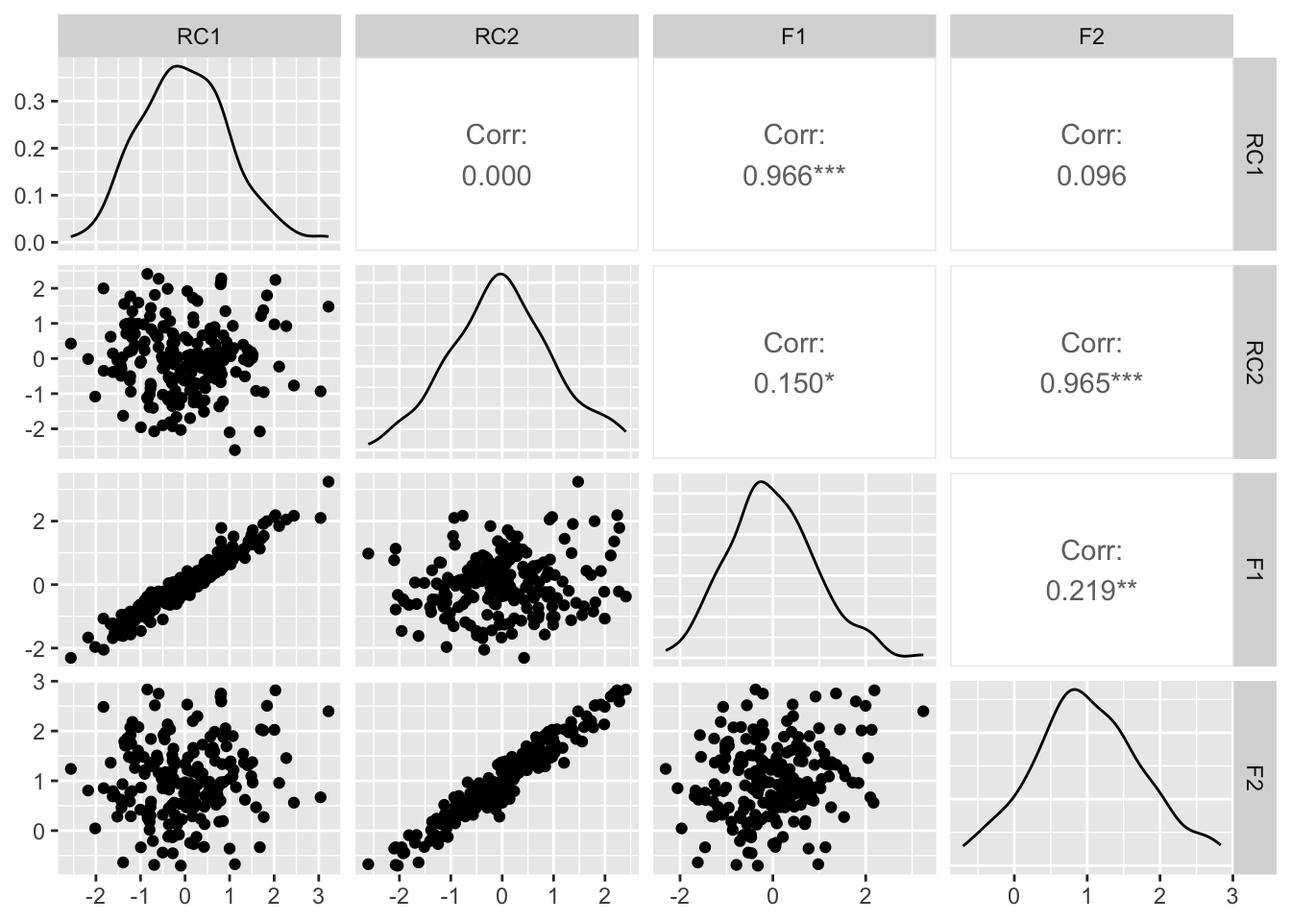
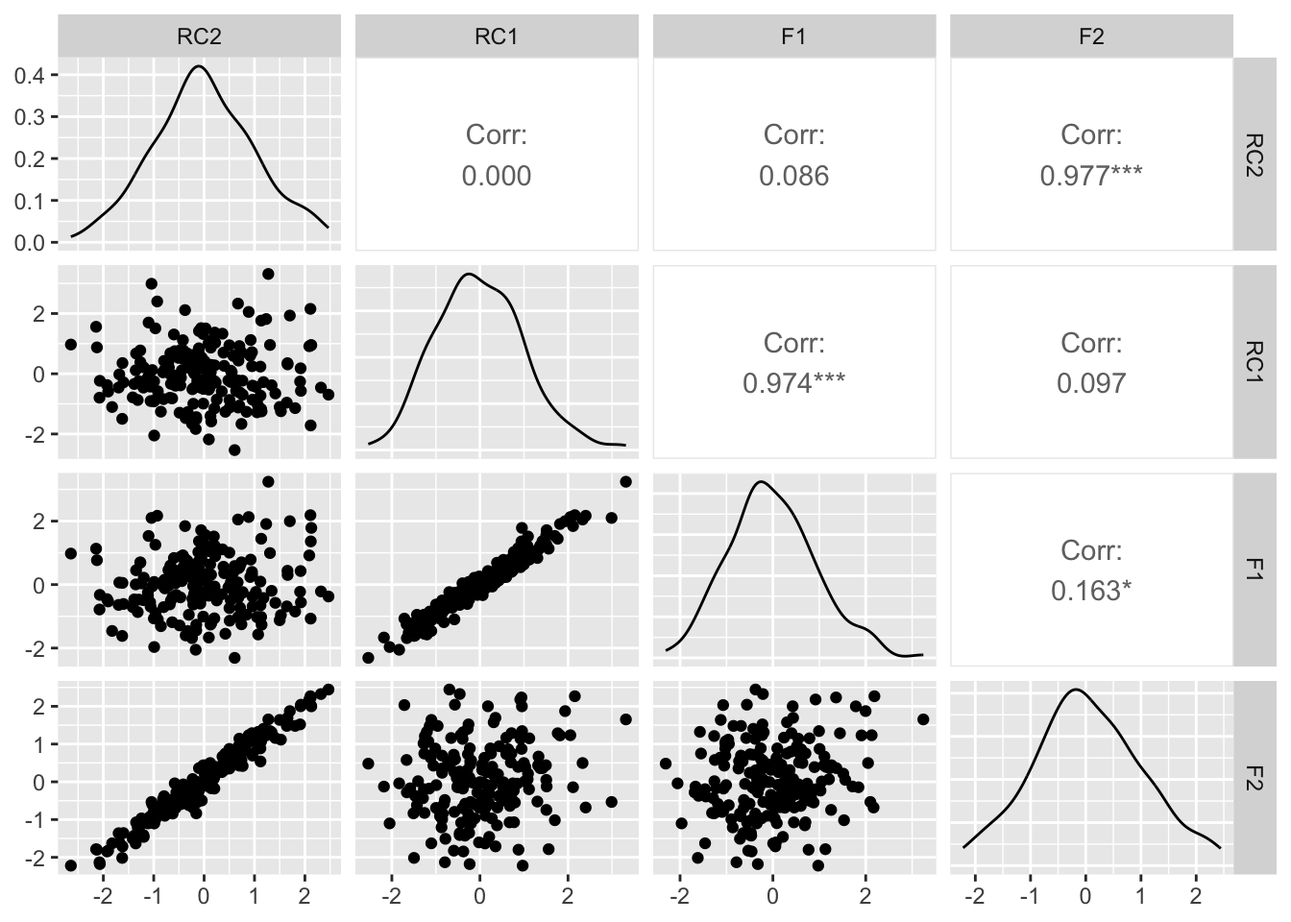
finish blog post

diff --git a/_site/posts/2025-12-11-pca-rotations/index.html b/_site/posts/2025-12-11-pca-rotations/index.html
@@ -195,6 +195,10 @@ cookieconsent.run({
   <li><a href="#promax" id="toc-promax" class="nav-link" data-scroll-target="#promax">ProMax</a></li>
   <li><a href="#oblimin" id="toc-oblimin" class="nav-link" data-scroll-target="#oblimin">ObliMin</a></li>
   </ul></li>
+  <li><a href="#summary" id="toc-summary" class="nav-link" data-scroll-target="#summary">Summary</a>
+  <ul class="collapse">
+  <li><a href="#limitations" id="toc-limitations" class="nav-link" data-scroll-target="#limitations">Limitations</a></li>
+  </ul></li>
   </ul>
 </nav>
     </div>
@@ -230,9 +234,10 @@ cookieconsent.run({
 <section id="what-happens-in-a-pca" class="level1">
 <h1>What happens in a PCA</h1>
 <p>Conceptually, PCA commonly is to summarise the latent variation within a dataset. That is, when we want to measure something that is not directly accessible, a way around that is to ask a number of questions that are measurable and combine them in a way that reflects the underlying thing we do want to measure.</p>
-<p>A PCA aims to do this mathematically by measuring the correlation between all pairs of variables, then creating new variables based on those correlations and weights of the original variables through an approach called eigenvalue decomposition. Variables that are similar weight heavily onto the same principle component, and there can one less principle components as there are variables (a.k.a: n - 1). In a standard PCA, which is also described as a varimax rotation<a href="#fn1" class="footnote-ref" id="fnref1" role="doc-noteref"><sup>1</sup></a>, there are two complimentary constraints to the calculation of weights, first is that the weights should maximise the amount of variance explained by the principle components and second is that principle components should be orthogonal, or perfectly uncorrelated with each other. Under a varimax rotation, an additional step is to alter the weightings by making large weights bigger, and penalize changes to weights that makes loadings similar across variables. This combination priotizes a simpler structure of the Principal components.</p>
+<p>A PCA aims to do this mathematically by measuring the correlation between all pairs of variables<a href="#fn1" class="footnote-ref" id="fnref1" role="doc-noteref"><sup>1</sup></a>, then creating new variables based on those correlations and weights of the original variables through an approach called eigenvalue decomposition. Variables that are similar weight heavily onto the same principal component, and there can be as many principal components as there are variables.</p>
+<p>PCA extracts components; rotations such as varimax are post-hoc steps applied after extraction. Varimax is an orthogonal rotation that seeks to simplify loadings by making large weights larger and small weights smaller while keeping components orthogonal (uncorrelated). This combination prioritizes a simpler structure of the principal components.</p>
 <p>In most social sciences, assuming that latent variables are uncorrelated is usually a poor assumption. Most aspects of human behaviour impact each other in some way, and so we often want to relax this assumption, using alternative rotations, such as Promax (<strong>PRO</strong>jection to <strong>MAX</strong>imise simplicity) and ObliMin (<strong>OBLI</strong>que <strong>MIN</strong>imum). But, often we do not have a good understanding of how these approaches vary or differ in their approach to measuring latent variables. Let us look at this in a simulated example.</p>
-<p>In the simulated example, I start with the end product (two latent factors named <code>F1</code> and <code>F2</code>), then create four variables from these latent factors (<code>V1, V2, V3, V4</code>). F1 and F2 have a 0.2 correlation that I have imposed, which is a low but not negligible relationship between latent variables. I specify the weights so that <code>V1</code> and <code>V2</code> are weighted towards <code>F1</code> (0.8 and 0.7 respectively), and V3 and V4 are weighted towards <code>F2</code> (0.8; 0.7), and add some normally distributed noise to those variables. The variables <code>V1-V4</code> then sit in a data frame <code>df</code> . The correlation matrix between each variable shows us that there is a stronger relationship between V1-2 and V3-4 but there is also some relationship across this divided, which is not an uncommon finding in social datasets.</p>
+<p>In the simulated example, I start with the end product (two latent factors named <code>F1</code> and <code>F2</code>), then create four variables from these latent factors (<code>V1, V2, V3, V4</code>). F1 and F2 have a 0.2 correlation that I have imposed, which is a low but not negligible relationship between latent variables. This is created below with the code: <code>F2 &lt;- 0.2 * F1 + sqrt(1 - 0.2^2) * rnorm(n)</code>, which constructs F2 with approximate correlation 0.2 to F1. I specify the weights so that <code>V1</code> and <code>V2</code> are weighted towards <code>F1</code> (0.8 and 0.7 respectively), and V3 and V4 are weighted towards <code>F2</code> (0.8; 0.7), and add some normally distributed noise to those variables. The variables <code>V1-V4</code> then sit in a data frame <code>df</code>. The correlation matrix between each variable shows us that there is a stronger relationship between V1-2 and V3-4 but there is also some relationship across this divided, which is not an uncommon finding in social datasets.</p>
 <div class="cell">
 <div class="sourceCode cell-code" id="cb1"><pre class="sourceCode r code-with-copy"><code class="sourceCode r"><span id="cb1-1"><a href="#cb1-1" aria-hidden="true" tabindex="-1"></a><span class="fu">library</span>(psych)</span>
 <span id="cb1-2"><a href="#cb1-2" aria-hidden="true" tabindex="-1"></a><span class="fu">library</span>(ggplot2)</span>
@@ -243,7 +248,7 @@ cookieconsent.run({
 <span id="cb1-7"><a href="#cb1-7" aria-hidden="true" tabindex="-1"></a><span class="fu">set.seed</span>(<span class="dv">123</span>)</span>
 <span id="cb1-8"><a href="#cb1-8" aria-hidden="true" tabindex="-1"></a>n <span class="ot">&lt;-</span> <span class="dv">200</span></span>
 <span id="cb1-9"><a href="#cb1-9" aria-hidden="true" tabindex="-1"></a>F1 <span class="ot">&lt;-</span> <span class="fu">rnorm</span>(n)</span>
-<span id="cb1-10"><a href="#cb1-10" aria-hidden="true" tabindex="-1"></a>F2 <span class="ot">&lt;-</span> F1 <span class="sc">*</span> <span class="fl">0.2</span> <span class="sc">+</span> <span class="fu">sqrt</span>(<span class="dv">1</span> <span class="sc">-</span> <span class="fl">0.2</span><span class="sc">^</span><span class="dv">2</span>) <span class="sc">+</span> <span class="fu">rnorm</span>(n, <span class="dv">0</span>, <span class="fl">0.75</span>)</span>
+<span id="cb1-10"><a href="#cb1-10" aria-hidden="true" tabindex="-1"></a>F2 <span class="ot">&lt;-</span> F1 <span class="sc">*</span> <span class="fl">0.2</span> <span class="sc">+</span> <span class="fu">sqrt</span>(<span class="dv">1</span> <span class="sc">-</span> <span class="fl">0.2</span><span class="sc">^</span><span class="dv">2</span>) <span class="sc">*</span> <span class="fu">rnorm</span>(n)</span>
 <span id="cb1-11"><a href="#cb1-11" aria-hidden="true" tabindex="-1"></a></span>
 <span id="cb1-12"><a href="#cb1-12" aria-hidden="true" tabindex="-1"></a><span class="co"># Variables mainly loading on one factor</span></span>
 <span id="cb1-13"><a href="#cb1-13" aria-hidden="true" tabindex="-1"></a>V1 <span class="ot">&lt;-</span> <span class="fl">0.8</span><span class="sc">*</span>F1 <span class="sc">+</span> <span class="fl">0.1</span><span class="sc">*</span>F2 <span class="sc">+</span> <span class="fu">rnorm</span>(n, <span class="dv">0</span>, <span class="fl">0.2</span>)</span>
@@ -253,41 +258,49 @@ cookieconsent.run({
 <span id="cb1-17"><a href="#cb1-17" aria-hidden="true" tabindex="-1"></a></span>
 <span id="cb1-18"><a href="#cb1-18" aria-hidden="true" tabindex="-1"></a>df <span class="ot">&lt;-</span> <span class="fu">data.frame</span>(V1, V2, V3, V4)</span>
 <span id="cb1-19"><a href="#cb1-19" aria-hidden="true" tabindex="-1"></a></span>
-<span id="cb1-20"><a href="#cb1-20" aria-hidden="true" tabindex="-1"></a><span class="fu">round</span>(<span class="fu">cor</span>(df), <span class="dv">2</span>)</span></code><button title="Copy to Clipboard" class="code-copy-button"><i class="bi"></i></button></pre></div>
+<span id="cb1-20"><a href="#cb1-20" aria-hidden="true" tabindex="-1"></a><span class="fu">cat</span>(<span class="st">"Correlations of Variables:</span><span class="sc">\n</span><span class="st">"</span>)</span></code><button title="Copy to Clipboard" class="code-copy-button"><i class="bi"></i></button></pre></div>
+<div class="cell-output cell-output-stdout">
+<pre><code>Correlations of Variables:</code></pre>
+</div>
+<div class="sourceCode cell-code" id="cb3"><pre class="sourceCode r code-with-copy"><code class="sourceCode r"><span id="cb3-1"><a href="#cb3-1" aria-hidden="true" tabindex="-1"></a><span class="fu">round</span>(<span class="fu">cor</span>(df), <span class="dv">2</span>)</span></code><button title="Copy to Clipboard" class="code-copy-button"><i class="bi"></i></button></pre></div>
 <div class="cell-output cell-output-stdout">
 <pre><code>     V1   V2   V3   V4
-V1 1.00 0.92 0.38 0.55
-V2 0.92 1.00 0.49 0.65
-V3 0.38 0.49 1.00 0.87
-V4 0.55 0.65 0.87 1.00</code></pre>
+V1 1.00 0.92 0.34 0.49
+V2 0.92 1.00 0.49 0.62
+V3 0.34 0.49 1.00 0.92
+V4 0.49 0.62 0.92 1.00</code></pre>
 </div>
 </div>
 <p>As mentioned in the description, PCA is based off of a correlation matrix, which is created below in the object <code>R</code>, but you can also put the data frame directly into the function <code>principal</code>. Doing the latter means you will be returned values for each observation in the data frame that reflect the principal components (which is usually what researchers are after).</p>
 <div class="cell">
-<div class="sourceCode cell-code" id="cb3"><pre class="sourceCode r code-with-copy"><code class="sourceCode r"><span id="cb3-1"><a href="#cb3-1" aria-hidden="true" tabindex="-1"></a><span class="co"># Step 2: Compute correlation matrix</span></span>
-<span id="cb3-2"><a href="#cb3-2" aria-hidden="true" tabindex="-1"></a>R <span class="ot">&lt;-</span> <span class="fu">cor</span>(df)</span>
-<span id="cb3-3"><a href="#cb3-3" aria-hidden="true" tabindex="-1"></a></span>
-<span id="cb3-4"><a href="#cb3-4" aria-hidden="true" tabindex="-1"></a><span class="co"># Step 3: Factor analysis with 2 factors</span></span>
-<span id="cb3-5"><a href="#cb3-5" aria-hidden="true" tabindex="-1"></a>pc_varimax <span class="ot">=</span> psych<span class="sc">::</span><span class="fu">principal</span>(df, <span class="at">nfactors =</span> <span class="dv">2</span>, <span class="at">rotate =</span> <span class="st">"varimax"</span>)</span>
-<span id="cb3-6"><a href="#cb3-6" aria-hidden="true" tabindex="-1"></a></span>
-<span id="cb3-7"><a href="#cb3-7" aria-hidden="true" tabindex="-1"></a><span class="fu">print</span>(pc_varimax<span class="sc">$</span>loadings, <span class="at">cutoff =</span> <span class="dv">0</span>)</span></code><button title="Copy to Clipboard" class="code-copy-button"><i class="bi"></i></button></pre></div>
+<div class="sourceCode cell-code" id="cb5"><pre class="sourceCode r code-with-copy"><code class="sourceCode r"><span id="cb5-1"><a href="#cb5-1" aria-hidden="true" tabindex="-1"></a><span class="co"># Step 2: Compute correlation matrix</span></span>
+<span id="cb5-2"><a href="#cb5-2" aria-hidden="true" tabindex="-1"></a>R <span class="ot">&lt;-</span> <span class="fu">cor</span>(df)</span>
+<span id="cb5-3"><a href="#cb5-3" aria-hidden="true" tabindex="-1"></a></span>
+<span id="cb5-4"><a href="#cb5-4" aria-hidden="true" tabindex="-1"></a><span class="co"># Step 3: Factor analysis with 2 factors</span></span>
+<span id="cb5-5"><a href="#cb5-5" aria-hidden="true" tabindex="-1"></a>pc_varimax <span class="ot">=</span> psych<span class="sc">::</span><span class="fu">principal</span>(df, <span class="at">nfactors =</span> <span class="dv">2</span>, <span class="at">rotate =</span> <span class="st">"varimax"</span>)</span>
+<span id="cb5-6"><a href="#cb5-6" aria-hidden="true" tabindex="-1"></a></span>
+<span id="cb5-7"><a href="#cb5-7" aria-hidden="true" tabindex="-1"></a><span class="fu">cat</span>(<span class="st">"Rotated score correlations:</span><span class="sc">\n</span><span class="st">"</span>)</span></code><button title="Copy to Clipboard" class="code-copy-button"><i class="bi"></i></button></pre></div>
+<div class="cell-output cell-output-stdout">
+<pre><code>Rotated score correlations:</code></pre>
+</div>
+<div class="sourceCode cell-code" id="cb7"><pre class="sourceCode r code-with-copy"><code class="sourceCode r"><span id="cb7-1"><a href="#cb7-1" aria-hidden="true" tabindex="-1"></a><span class="fu">print</span>(pc_varimax<span class="sc">$</span>loadings, <span class="at">cutoff =</span> <span class="dv">0</span>)</span></code><button title="Copy to Clipboard" class="code-copy-button"><i class="bi"></i></button></pre></div>
 <div class="cell-output cell-output-stdout">
 <pre><code>
 Loadings:
-   RC1   RC2  
-V1 0.962 0.210
-V2 0.919 0.344
-V3 0.173 0.963
-V4 0.385 0.891
+   RC2   RC1  
+V1 0.178 0.969
+V2 0.348 0.918
+V3 0.970 0.168
+V4 0.920 0.339
 
-                 RC1   RC2
-SS loadings    1.947 1.883
-Proportion Var 0.487 0.471
-Cumulative Var 0.487 0.957</code></pre>
+                 RC2   RC1
+SS loadings    1.941 1.924
+Proportion Var 0.485 0.481
+Cumulative Var 0.485 0.966</code></pre>
 </div>
-<div class="sourceCode cell-code" id="cb5"><pre class="sourceCode r code-with-copy"><code class="sourceCode r"><span id="cb5-1"><a href="#cb5-1" aria-hidden="true" tabindex="-1"></a>plot_df <span class="ot">=</span> <span class="fu">data.frame</span>(pc_varimax<span class="sc">$</span>scores, F1 , F2)</span>
-<span id="cb5-2"><a href="#cb5-2" aria-hidden="true" tabindex="-1"></a></span>
-<span id="cb5-3"><a href="#cb5-3" aria-hidden="true" tabindex="-1"></a><span class="fu">ggpairs</span>(plot_df)</span></code><button title="Copy to Clipboard" class="code-copy-button"><i class="bi"></i></button></pre></div>
+<div class="sourceCode cell-code" id="cb9"><pre class="sourceCode r code-with-copy"><code class="sourceCode r"><span id="cb9-1"><a href="#cb9-1" aria-hidden="true" tabindex="-1"></a>plot_df <span class="ot">=</span> <span class="fu">data.frame</span>(pc_varimax<span class="sc">$</span>scores, F1 , F2)</span>
+<span id="cb9-2"><a href="#cb9-2" aria-hidden="true" tabindex="-1"></a></span>
+<span id="cb9-3"><a href="#cb9-3" aria-hidden="true" tabindex="-1"></a><span class="fu">ggpairs</span>(plot_df)</span></code><button title="Copy to Clipboard" class="code-copy-button"><i class="bi"></i></button></pre></div>
 <div class="cell-output-display">
 <div>
 <figure class="figure">
@@ -296,84 +309,94 @@ Cumulative Var 0.487 0.957</code></pre>
 </div>
 </div>
 </div>
-<p>Looking at the loadings for the variables on the principle components the loadings are matching up about as well as we could hope. V1 and V2 load heavily onto RC1 and V2 and V4 on RC2.</p>
-<p>are all loaded on <code>PC1</code>, which is not what we think we should see, and that <code>V1-V2</code> and <code>V3-V4</code> are linked to <code>PC2</code> in opposite directions. This is a common outcome for standard/varimax PCA, where the restriction of orthogonality means that variables load onto multiple principle components in a strange and unintuitive way, despite the rotation trying to minimize this possibility. We can see the uncorrelated nature of the variables in the plot below, and a correlation value of ~0. What we can be sure of in this approach is that the principle components are independent latent variables, however, in social and human behavioral research, it is more often that latent factors are related in some way - both conceptually and numerically.</p>
+<p>Looking at the loadings for the variables on the principal components the loadings are matching up about as well as we could hope. V1 and V2 load heavily onto RC1 (RC = rotated component) and V3 and V4 on RC2. It does not capture the relationship between the latent variables however, showing a correlation of 0 for RC1 and RC2, which is a consequence of the orthogonality constraint in varimax rotations. What we can be sure of in this approach is that the principal components are independent latent variables, however, in social and human behavioral research, it is more often that latent factors are related in some way - both conceptually and numerically.</p>
 <p>As such, we can use different rotations that make adjustments to PCA that relax the orthogonality assumption in order to get more interpretable factors. Two common alternative rotations to varimax used in social research is the ProMax and ObliMin rotations.</p>
 <section id="promax" class="level2">
 <h2 class="anchored" data-anchor-id="promax">ProMax</h2>
-<p>Promax is an extention of the varimax rotation, that begins with the varimax output and raises the loadings to a power (in addition to the square-square change performed by varimax) . By raising the loadings to a power, the strong loadings become larger and the weak loadings get closer to zero. The effect of this change is that each variable weights more strongly onto each latent variable, and exaggerates the patterns seen in the latent variable. This more significant change to the loadings also makes the latent components correlated, unlike varimax components.</p>
+<p>Promax is an extension of the varimax rotation, that begins with the varimax output and raises the loadings to a power (in addition to the square-square change performed by varimax) . By raising the loadings to a power, the strong loadings become larger and the weak loadings get closer to zero. The effect of this change is that each variable weights more strongly onto each latent variable, and exaggerates the patterns seen in the latent variable. This more significant change to the loadings also makes the latent components correlated, unlike varimax components.</p>
 <div class="cell">
-<div class="sourceCode cell-code" id="cb6"><pre class="sourceCode r code-with-copy"><code class="sourceCode r"><span id="cb6-1"><a href="#cb6-1" aria-hidden="true" tabindex="-1"></a><span class="co"># Step 4: Promax Rotations</span></span>
-<span id="cb6-2"><a href="#cb6-2" aria-hidden="true" tabindex="-1"></a>pc_promax <span class="ot">=</span> psych<span class="sc">::</span><span class="fu">principal</span>(df, <span class="at">nfactors =</span> <span class="dv">2</span>, <span class="at">rotate =</span> <span class="st">"promax"</span>)</span>
-<span id="cb6-3"><a href="#cb6-3" aria-hidden="true" tabindex="-1"></a></span>
-<span id="cb6-4"><a href="#cb6-4" aria-hidden="true" tabindex="-1"></a><span class="fu">print</span>(pc_varimax<span class="sc">$</span>loadings, <span class="at">cutoff =</span> <span class="dv">0</span>)</span></code><button title="Copy to Clipboard" class="code-copy-button"><i class="bi"></i></button></pre></div>
+<div class="sourceCode cell-code" id="cb10"><pre class="sourceCode r code-with-copy"><code class="sourceCode r"><span id="cb10-1"><a href="#cb10-1" aria-hidden="true" tabindex="-1"></a><span class="co"># Step 4: Promax Rotations</span></span>
+<span id="cb10-2"><a href="#cb10-2" aria-hidden="true" tabindex="-1"></a>pc_promax <span class="ot">=</span> psych<span class="sc">::</span><span class="fu">principal</span>(df, <span class="at">nfactors =</span> <span class="dv">2</span>, <span class="at">rotate =</span> <span class="st">"promax"</span>)</span>
+<span id="cb10-3"><a href="#cb10-3" aria-hidden="true" tabindex="-1"></a></span>
+<span id="cb10-4"><a href="#cb10-4" aria-hidden="true" tabindex="-1"></a><span class="fu">cat</span>(<span class="st">"Rotated score correlations:</span><span class="sc">\n</span><span class="st">"</span>)</span></code><button title="Copy to Clipboard" class="code-copy-button"><i class="bi"></i></button></pre></div>
+<div class="cell-output cell-output-stdout">
+<pre><code>Rotated score correlations:</code></pre>
+</div>
+<div class="sourceCode cell-code" id="cb12"><pre class="sourceCode r code-with-copy"><code class="sourceCode r"><span id="cb12-1"><a href="#cb12-1" aria-hidden="true" tabindex="-1"></a><span class="fu">print</span>(pc_promax<span class="sc">$</span>loadings, <span class="at">cutoff =</span> <span class="dv">0</span>)</span></code><button title="Copy to Clipboard" class="code-copy-button"><i class="bi"></i></button></pre></div>
 <div class="cell-output cell-output-stdout">
 <pre><code>
 Loadings:
-   RC1   RC2  
-V1 0.962 0.210
-V2 0.919 0.344
-V3 0.173 0.963
-V4 0.385 0.891
+   RC1    RC2   
+V1  1.028 -0.092
+V2  0.922  0.111
+V3 -0.094  1.028
+V4  0.111  0.921
 
                  RC1   RC2
-SS loadings    1.947 1.883
-Proportion Var 0.487 0.471
-Cumulative Var 0.487 0.957</code></pre>
+SS loadings    1.926 1.925
+Proportion Var 0.482 0.481
+Cumulative Var 0.482 0.963</code></pre>
 </div>
-</div>
-<p>The exaggeration of weightings performed by the ProMax rotation sees our variables split across the two principal components in a way that our simulated example might</p>
-<div class="cell">
-<div class="sourceCode cell-code" id="cb8"><pre class="sourceCode r code-with-copy"><code class="sourceCode r"><span id="cb8-1"><a href="#cb8-1" aria-hidden="true" tabindex="-1"></a>plot_df <span class="ot">=</span> <span class="fu">data.frame</span>(pc_promax<span class="sc">$</span>scores)</span>
-<span id="cb8-2"><a href="#cb8-2" aria-hidden="true" tabindex="-1"></a><span class="fu">ggplot</span>(plot_df, <span class="fu">aes</span>(<span class="at">x =</span> RC1, <span class="at">y =</span> RC2)) <span class="sc">+</span> </span>
-<span id="cb8-3"><a href="#cb8-3" aria-hidden="true" tabindex="-1"></a>  <span class="fu">geom_point</span>() <span class="sc">+</span> </span>
-<span id="cb8-4"><a href="#cb8-4" aria-hidden="true" tabindex="-1"></a>  <span class="fu">stat_cor</span>(<span class="at">method =</span> <span class="st">"pearson"</span>, <span class="at">label.x =</span> <span class="fl">1.5</span>, <span class="at">label.y =</span> <span class="fl">3.0</span>)</span></code><button title="Copy to Clipboard" class="code-copy-button"><i class="bi"></i></button></pre></div>
+<div class="sourceCode cell-code" id="cb14"><pre class="sourceCode r code-with-copy"><code class="sourceCode r"><span id="cb14-1"><a href="#cb14-1" aria-hidden="true" tabindex="-1"></a>plot_df <span class="ot">=</span> <span class="fu">data.frame</span>(pc_promax<span class="sc">$</span>scores, F1 , F2)</span>
+<span id="cb14-2"><a href="#cb14-2" aria-hidden="true" tabindex="-1"></a><span class="fu">ggpairs</span>(plot_df)</span></code><button title="Copy to Clipboard" class="code-copy-button"><i class="bi"></i></button></pre></div>
 <div class="cell-output-display">
 <div>
 <figure class="figure">
-<p><img src="index_files/figure-html/unnamed-chunk-5-1.png" class="img-fluid figure-img" width="672"></p>
+<p><img src="index_files/figure-html/unnamed-chunk-3-1.png" class="img-fluid figure-img" width="672"></p>
 </figure>
 </div>
 </div>
 </div>
+<p>The exaggeration of weightings performed by the ProMax rotation further emphasises the weighting between principal components, V1-2 are heavily weighted to RC1 and V3-4 onto RC2, as we expect. However, instead of constraining the correlation between latent variables to zero, the Promax approach has over estimated the latent variation between F1 and F2, with a correlation of 0.533 - more than double the size of the correlation that we imposed between the latent factors.</p>
 </section>
 <section id="oblimin" class="level2">
 <h2 class="anchored" data-anchor-id="oblimin">ObliMin</h2>
+<p>ObliMin is an oblique rotation (i.e.&nbsp;it relaxes the orthogonality constraint) that directly searches for a simpler loading pattern while allowing factors to correlate. Unlike Promax, which starts from an orthogonal solution and then rotates toward a target, ObliMin directly optimizes a simplicity criterion. In plain terms, that criterion penalizes variables having substantial loadings on more than one factor, so solutions where each variable loads primarily on one factor are favored.</p>
 <div class="cell">
-<div class="sourceCode cell-code" id="cb9"><pre class="sourceCode r code-with-copy"><code class="sourceCode r"><span id="cb9-1"><a href="#cb9-1" aria-hidden="true" tabindex="-1"></a><span class="co"># Step 4: Promax Rotations</span></span>
-<span id="cb9-2"><a href="#cb9-2" aria-hidden="true" tabindex="-1"></a>pc_oblimin <span class="ot">=</span> psych<span class="sc">::</span><span class="fu">principal</span>(df, <span class="at">nfactors =</span> <span class="dv">2</span>, <span class="at">rotate =</span> <span class="st">"oblimin"</span>)</span>
-<span id="cb9-3"><a href="#cb9-3" aria-hidden="true" tabindex="-1"></a></span>
-<span id="cb9-4"><a href="#cb9-4" aria-hidden="true" tabindex="-1"></a><span class="fu">print</span>(pc_oblimin<span class="sc">$</span>loadings, <span class="at">cutoff =</span> <span class="dv">0</span>)</span></code><button title="Copy to Clipboard" class="code-copy-button"><i class="bi"></i></button></pre></div>
+<div class="sourceCode cell-code" id="cb15"><pre class="sourceCode r code-with-copy"><code class="sourceCode r"><span id="cb15-1"><a href="#cb15-1" aria-hidden="true" tabindex="-1"></a><span class="co"># Step 5: ObliMin Rotations</span></span>
+<span id="cb15-2"><a href="#cb15-2" aria-hidden="true" tabindex="-1"></a>pc_oblimin <span class="ot">=</span> psych<span class="sc">::</span><span class="fu">principal</span>(df, <span class="at">nfactors =</span> <span class="dv">2</span>, <span class="at">rotate =</span> <span class="st">"oblimin"</span>)</span>
+<span id="cb15-3"><a href="#cb15-3" aria-hidden="true" tabindex="-1"></a></span>
+<span id="cb15-4"><a href="#cb15-4" aria-hidden="true" tabindex="-1"></a><span class="fu">cat</span>(<span class="st">"Rotated score correlations:</span><span class="sc">\n</span><span class="st">"</span>)</span></code><button title="Copy to Clipboard" class="code-copy-button"><i class="bi"></i></button></pre></div>
+<div class="cell-output cell-output-stdout">
+<pre><code>Rotated score correlations:</code></pre>
+</div>
+<div class="sourceCode cell-code" id="cb17"><pre class="sourceCode r code-with-copy"><code class="sourceCode r"><span id="cb17-1"><a href="#cb17-1" aria-hidden="true" tabindex="-1"></a><span class="fu">print</span>(pc_oblimin<span class="sc">$</span>loadings, <span class="at">cutoff =</span> <span class="dv">0</span>)</span></code><button title="Copy to Clipboard" class="code-copy-button"><i class="bi"></i></button></pre></div>
 <div class="cell-output cell-output-stdout">
 <pre><code>
 Loadings:
    TC1    TC2   
-V1  1.013 -0.061
-V2  0.926  0.102
-V3 -0.088  1.019
-V4  0.170  0.874
+V1  1.018 -0.075
+V2  0.917  0.125
+V3 -0.076  1.018
+V4  0.126  0.915
 
                  TC1   TC2
-SS loadings    1.921 1.817
-Proportion Var 0.480 0.454
-Cumulative Var 0.480 0.934</code></pre>
+SS loadings    1.899 1.895
+Proportion Var 0.475 0.474
+Cumulative Var 0.475 0.948</code></pre>
 </div>
-</div>
-<div class="cell">
-<div class="sourceCode cell-code" id="cb11"><pre class="sourceCode r code-with-copy"><code class="sourceCode r"><span id="cb11-1"><a href="#cb11-1" aria-hidden="true" tabindex="-1"></a>plot_df <span class="ot">=</span> <span class="fu">data.frame</span>(pc_oblimin<span class="sc">$</span>scores)</span>
-<span id="cb11-2"><a href="#cb11-2" aria-hidden="true" tabindex="-1"></a><span class="fu">ggplot</span>(plot_df, <span class="fu">aes</span>(<span class="at">x =</span> TC1, <span class="at">y =</span> TC2)) <span class="sc">+</span> </span>
-<span id="cb11-3"><a href="#cb11-3" aria-hidden="true" tabindex="-1"></a>  <span class="fu">geom_point</span>() <span class="sc">+</span> </span>
-<span id="cb11-4"><a href="#cb11-4" aria-hidden="true" tabindex="-1"></a>  <span class="fu">stat_cor</span>(<span class="at">method =</span> <span class="st">"pearson"</span>, <span class="at">label.x =</span> <span class="fl">1.5</span>, <span class="at">label.y =</span> <span class="fl">3.0</span>)</span></code><button title="Copy to Clipboard" class="code-copy-button"><i class="bi"></i></button></pre></div>
+<div class="sourceCode cell-code" id="cb19"><pre class="sourceCode r code-with-copy"><code class="sourceCode r"><span id="cb19-1"><a href="#cb19-1" aria-hidden="true" tabindex="-1"></a>plot_df <span class="ot">=</span> <span class="fu">data.frame</span>(pc_oblimin<span class="sc">$</span>scores, F1 , F2)</span>
+<span id="cb19-2"><a href="#cb19-2" aria-hidden="true" tabindex="-1"></a><span class="fu">ggpairs</span>(plot_df)</span></code><button title="Copy to Clipboard" class="code-copy-button"><i class="bi"></i></button></pre></div>
 <div class="cell-output-display">
 <div>
 <figure class="figure">
-<p><img src="index_files/figure-html/unnamed-chunk-7-1.png" class="img-fluid figure-img" width="672"></p>
+<p><img src="index_files/figure-html/unnamed-chunk-4-1.png" class="img-fluid figure-img" width="672"></p>
 </figure>
 </div>
 </div>
 </div>
-<p>Numerically, PCA is derived from a correlation matrix. That is, for each variable you are interested in, calculate how they are correlated to each other and put them into a square matri.</p>
-<p>Assuming that we have a standardized (the mean is zero for all variables) Principle component analysis are derived from the covariance of the variables in the matrix. Let’s take a small example, using data from the R package <a href="https://cran.r-project.org/web/packages/languageR/languageR.pdf">languageR</a>. We are going to use the datatset ‘<em>english</em>’. This data set gives mean visual lexical decision latencies and word naming latencies to 2284 monomorphemic English nouns and verbs, averaged for old and young subjects, with various pre- dictor variables. For each word, there is an average latency value for an Old and Young participant. I choose this datatset only because I see that it has been used for PCA before. Specifically the variables</p>
+<p>The ObliMin results are negligibly better when it comes to the correlation between latent variables, with the correlation between TC1 (transformed component) and TC2 coming in around 0.5 - still more than double our prescribed variation at 0.2. It is also still the case that V1 and V2 are contributing somewhat to TC2 and V3 and V4 to TC1, which might be the numerical cause of the correlation between the latent factors.</p>
+</section>
+</section>
+<section id="summary" class="level1">
+<h1>Summary</h1>
+<p>The point I am trying to make with this post is that, while PCA has been used widely in quantitative approaches to the humanities and social science (HASS), as well as in many other disciplines (e.g.&nbsp;genetics), it is not good at recovering correlated structures between latent variables.</p>
+<p>In the analysis of observed social data, where I have largely worked, it is rarely that case that dimensions of variation are theoretically considered independent - whether that be in <a href="https://www.nature.com/articles/s41467-024-48113-7">music</a> or <a href="https://www.science.org/doi/full/10.1126/sciadv.adg6175">grammar</a> (to cite some places where I have sinned).</p>
+<p>So, while PCA might reveal interesting correlations and weightings among a set of variables, when latent variables from PCA are attributed to real-world concepts, the independence imposed by this method (i.e.&nbsp;varimax rotation) can be at odds with theoretical expectations. If we account for that possibility of correlated latent variation, by using Promax or ObliMin, the simulation here shows that these rotations cannot accurately recover that correlation.</p>
+<p>I do not want to go into the alternatives here, but I think causal graph models (e.g.&nbsp;<a href="https://osf.io/preprints/socarxiv/7utza_v1">used in this paper</a>) offer a more theoretically robust way to test hypotheses of the relationships between observed and latent variables.</p>
+<section id="limitations" class="level2">
+<h2 class="anchored" data-anchor-id="limitations">Limitations</h2>
+<p>Of course, this is a small simulation based on one level of correlation between latent variables. It is possible, perhaps even plausible, that these rotations perform better when correlations between latent variables is much higher, or lower, or negative - all variations that have not been examined here. I welcome any suggestions of resources that might suggest alternatives.</p>
 
 
 </section>
@@ -383,7 +406,7 @@ Cumulative Var 0.480 0.934</code></pre>
 <div id="quarto-appendix" class="default"><section id="footnotes" class="footnotes footnotes-end-of-document" role="doc-endnotes"><h2 class="anchored quarto-appendix-heading">Footnotes</h2>
 
 <ol>
-<li id="fn1"><p>It is also possible to perform no rotations in PCA, but this is not common and varimax is a common default approach. For example, vairmax is the default option in psych::principal<a href="#fnref1" class="footnote-back" role="doc-backlink">↩</a></p></li>
+<li id="fn1"><p>Technically, correlations can only be used when all variables have been scaled equally. If the variables are not scaled, then PCA would more likely use a covariance matrix.<a href="#fnref1" class="footnote-back" role="doc-backlink">↩</a></p></li>
 </ol>
 </section></div></main> <!-- /main -->
 <script>

diff --git a/_site/about.html b/_site/about.html
@@ -6,7 +6,7 @@
 
 <meta name="viewport" content="width=device-width, initial-scale=1.0, user-scalable=yes">
 
-<meta name="description" content="Andreas Handel personal website.">
+<meta name="description" content="Sam Passmore personal website.">
 
 <title>Sam Passmore - Sam Passmore - Brief professional bio</title>
 <style>
@@ -74,6 +74,15 @@ ul.task-list li input[type="checkbox"] {
     "search-label": "Search"
   }
 }</script>
+<script async="" src="https://www.googletagmanager.com/gtag/js?id=G-63HEHQ31FH"></script>
+
+<script type="text/plain" cookie-consent="tracking">
+
+window.dataLayer = window.dataLayer || [];
+function gtag(){dataLayer.push(arguments);}
+gtag('js', new Date());
+gtag('config', 'G-63HEHQ31FH', { 'anonymize_ip': true});
+</script>
 
 <script type="text/javascript" charset="UTF-8">
 document.addEventListener('DOMContentLoaded', function () {
